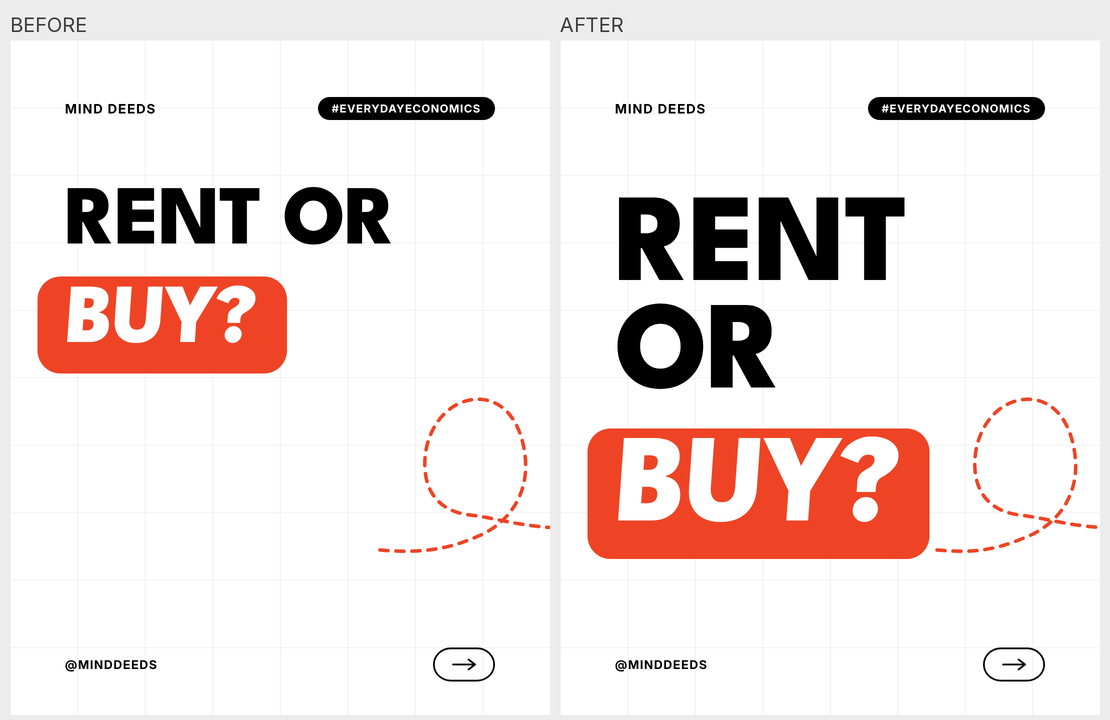
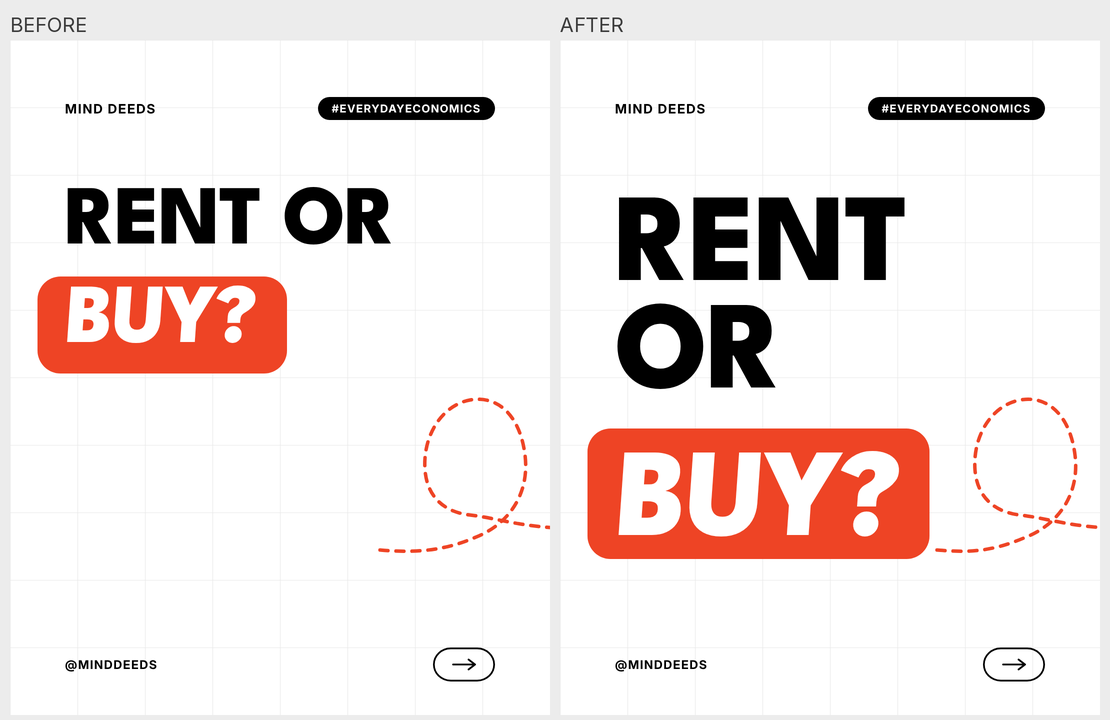
Posts: centre the words inside the red pill
The pill's padding was fixed in px while the font's line box has more room
below the capitals than above, so pill text sat high (about 20px above vs
50-60px below). The pill padding is now set from the letters' measured ink box
(canvas measureText + a baseline probe), on the cover pill and the CTA pill.
Now within 1-2px on every test cover.

Claude-Session: https://claude.ai/code/session_019To1K6qnWdwfnc1xaY8wxZ

Changed region(s): [[0.5514, 0.5806, 0.827, 0.7639]]

diff --git a/raspberry_pi/content_engine/src/autocontent/render/renderer.py b/raspberry_pi/content_engine/src/autocontent/render/renderer.py
@@ -160,6 +160,47 @@ _UNIT_GLUE = re.compile(r"\S*\d\S*(?:\s+(?:lakh|lakhs|crore|crores|cr|million|bi
 _PILL_LEADERS = {"a", "an", "the", "of", "to", "in", "on", "per", "for", "by", "at", "my", "your", "our", "its"}
 
 
+# The pill's padding is set from the letters' real ink box, so the words sit in the middle of the
+# red pill. The font's line box has more room below the capitals than above them, which left the
+# text sitting high (about 20px above, 50-60px below); this measures the capitals with a canvas and
+# moves padding from one side to the other (the pill keeps its size and its left edge).
+CENTER_PILL_INK_JS = """
+const centerPillInk = (pill) => {
+    const span = pill.querySelector('span') || pill;
+    const text = (span.textContent || '').trim().toUpperCase();
+    if (!text) return;
+    const cs = window.getComputedStyle(span);
+    const ctx = document.createElement('canvas').getContext('2d');
+    ctx.font = `${cs.fontStyle} ${cs.fontWeight} ${cs.fontSize} ${cs.fontFamily}`;
+    if ('letterSpacing' in ctx) ctx.letterSpacing = cs.letterSpacing;
+    const m = ctx.measureText(text);
+    const probe = document.createElement('i');
+    probe.style.cssText = 'display:inline-block;width:0;height:0;vertical-align:baseline;';
+    span.appendChild(probe);
+    pill.style.position = 'relative';
+    const pr = pill.getBoundingClientRect();
+    const baseline = probe.getBoundingClientRect().top - pr.top;
+    probe.remove();
+    const inkTop = baseline - m.actualBoundingBoxAscent;
+    const inkBottom = baseline + m.actualBoundingBoxDescent;
+    const pcs = window.getComputedStyle(pill);
+    const pt = parseFloat(pcs.paddingTop), pb = parseFloat(pcs.paddingBottom);
+    const dy = ((pr.height - inkBottom) - inkTop) / 2;
+    const ndy = Math.max(-pt, Math.min(pb, dy));
+    pill.style.paddingTop = (pt + ndy) + 'px';
+    pill.style.paddingBottom = (pb - ndy) + 'px';
+    const textLeft = span.offsetLeft;
+    const inkLeft = textLeft - m.actualBoundingBoxLeft;
+    const inkRight = textLeft + m.actualBoundingBoxRight;
+    const pl = parseFloat(pcs.paddingLeft), prr = parseFloat(pcs.paddingRight);
+    const dx = ((pr.width - inkRight) - inkLeft) / 2;
+    const ndx = Math.max(-pl + 8, Math.min(prr - 8, dx));
+    pill.style.paddingLeft = (pl + ndx) + 'px';
+    pill.style.paddingRight = (prr - ndx) + 'px';
+};
+"""
+
+
 def cover_fill_js(width: int, square: bool) -> str:
     """grid_pill cover: the kicker, headline and pill are one block that fills the slide.
 
@@ -172,6 +213,7 @@ def cover_fill_js(width: int, square: bool) -> str:
     max_px = 210 if square else 250
     return f"""
     () => {{
+        {CENTER_PILL_INK_JS}
         const box = document.querySelector('.headline-container');
         const h1 = document.querySelector('.cover-headline');
         const pill = document.querySelector('.accent-pill');
@@ -206,6 +248,7 @@ def cover_fill_js(width: int, square: bool) -> str:
             if (fits()) {{ best = mid; lo = mid + 1; }} else {{ hi = mid - 1; }}
         }}
         setSize(best);
+        if (pill) centerPillInk(pill);
         const h = box.getBoundingClientRect().height;
         box.style.top = Math.round(TOP + Math.max(0, ROOM - h) * 0.42) + 'px';
         return {{ success: true, fontSize: best }};
@@ -723,6 +766,8 @@ class SlideRenderer:
             """, "comparison"))
         elif slide_type == "cta":
             steps.append((f"fitText('.cta-headline', {cover_w}, {max_cta_h}, 56, 120)", "CTA headline"))
+            if self.style_name == "grid_pill":
+                steps.append(("() => {" + CENTER_PILL_INK_JS + " document.querySelectorAll('.cta-pill').forEach(centerPillInk); }", None))
             steps.append((f"""
                 () => {{
                     const anchor = document.getElementById('cta-baseline-anchor') || document.getElementById('baseline-anchor');
